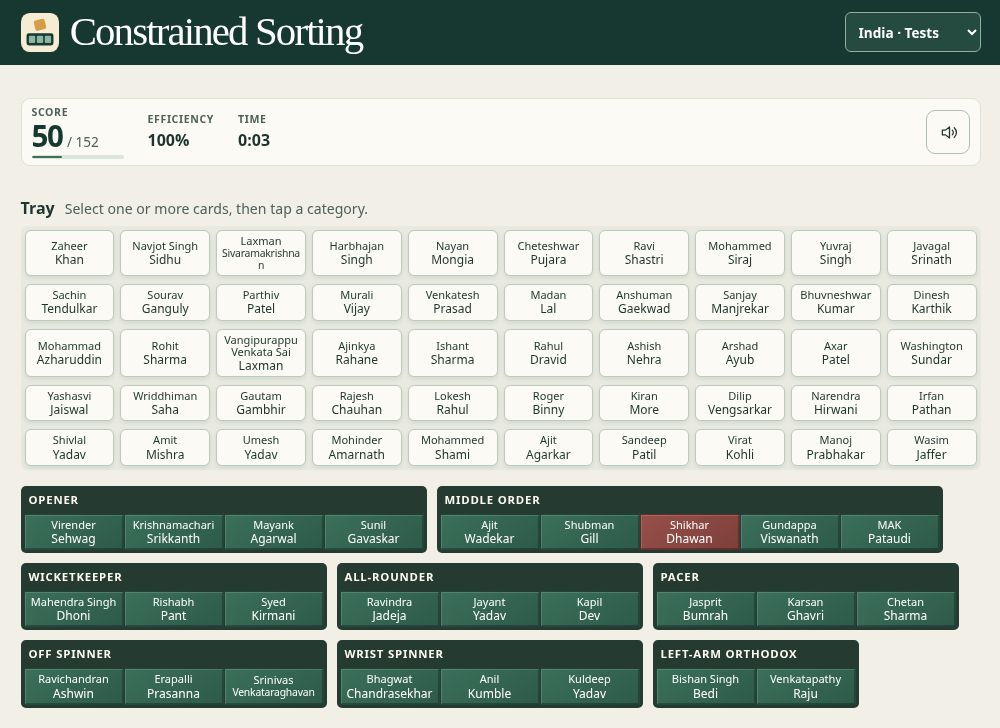
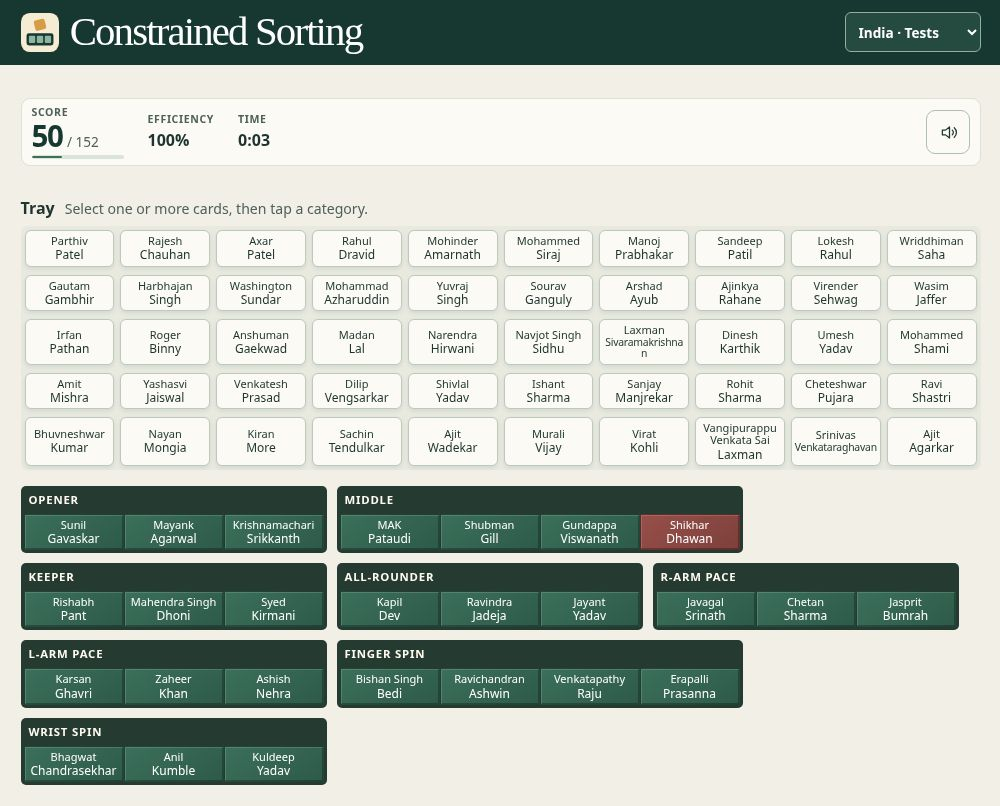
Refine Test cricket categories and labels

diff --git a/play.html b/play.html
@@ -152,7 +152,23 @@
     .deck-status:empty { display: none; }
     .rules { max-width: 42ch; }
     .rules summary { width: fit-content; cursor: pointer; }
-    .rules p { margin-top: 4px; }
+    .rules p { margin-top: .55rem; }
+    .project-links { display: flex; flex-wrap: wrap; gap: 8px; margin-top: 12px; }
+    .project-links a {
+      display: inline-flex;
+      align-items: center;
+      min-height: 44px;
+      padding: 4px 12px;
+      border: 1px solid #b6c9bb;
+      border-radius: 8px;
+      background: var(--paper);
+      color: #355b47;
+      font-size: .8rem;
+      font-weight: 650;
+      text-decoration: none;
+    }
+    .project-links a:hover { background: #e8eee4; }
+    .project-links a:focus-visible { outline: 2px solid #a46118; outline-offset: 3px; }
     .play-field { display: grid; grid-template-columns: minmax(0, 1fr); gap: 16px; padding: 12px 0 17px; }
     .cricket-board { --card-width: 6.25rem; }
     .cricket-board #tray-cards {
@@ -393,11 +409,15 @@
       </div>
       <details class="detail rules">
         <summary>Rules</summary>
-        <p>Select one or more items in the tray, then click or tap a category box to move them there. Each item has one target category.</p>
-        <p>To move an item again, select it and choose another category or the tray. With nothing selected, click or tap a category heading to select all its items.</p>
-        <p>An item in the right category earns 2 points if it got there on the first move, 1 on the second, and 0 after that. Efficiency is the number of items currently in categories divided by the total number of moves. Each item moved counts separately.</p>
+        <p>Pick one or more items in the tray, then tap a category box to put them there. Each item belongs in exactly one category.</p>
+        <p>To move an item again, select it and tap a different category, or tap the tray to take it back. If nothing is selected, tapping a category heading selects every item in that category.</p>
+        <p>Scoring: an item in the right category scores 2 points if you got it there on your first move, 1 point on your second move, and 0 after that.</p>
+        <p>Efficiency is the number of items currently placed in categories divided by your total moves. Each item you move counts as its own move.</p>
       </details>
-      <p class="detail" id="project-links"><a href="index.html">Project home</a> · <a href="constrained-sorting-history.html">Project history</a></p>
+      <nav class="project-links" id="project-links" aria-label="Project links">
+        <a href="index.html">Project home</a>
+        <a href="constrained-sorting-history.html">Project history</a>
+      </nav>
     </section>
   </main>
 

diff --git a/constrained-sorting-history.html b/constrained-sorting-history.html
@@ -60,6 +60,7 @@
       <a href="#game">Designing the game</a>
       <a href="#release">First release</a>
       <a href="#second-commit">Second commit</a>
+      <a href="#third-update">Third push</a>
       <a href="#archive">Technical history</a>
     </nav>
 
@@ -110,7 +111,13 @@
     <section id="second-commit">
       <h2>Second commit</h2>
       <p>The project got its own home page, following the layout of Prime Factor 64. It gives the Quick demo and each cricket deck a direct link. The home and game pages use a smaller title and a logo showing a card above a sorting tray. A screenshot from the India Tests deck shows the game in play. The rules now use the same language for every deck and explain how to select items, move them, and return them to the tray.</p>
-      <p>The IPL deck grew from 63 to 99 players by adding 36 overseas players. The Test deck grew from 59 to 76, including Gundappa Viswanath, MAK Pataudi, and all four members of India’s classic spin quartet. The Test deck uses a Left-arm Orthodox category for bowlers such as Bishan Singh Bedi and a Wrist Spinner category that includes both Bhagwat Chandrasekhar and Kuldeep Yadav.</p>
+      <p>The IPL deck grew from 63 to 99 players by adding 36 overseas players. The Test deck grew from 59 to 76, including Gundappa Viswanath, MAK Pataudi, and all four members of India’s classic spin quartet. It used a separate Left-arm Orthodox category and grouped wrist spinners such as Bhagwat Chandrasekhar and Kuldeep Yadav together. <a href="https://github.com/nsram/constrained-sorting/commit/9a1d999a4a6211a9eb2a94765a69f2acbe67bd52">View the second push on GitHub</a>.</p>
+    </section>
+
+    <section id="third-update">
+      <h2>Third push</h2>
+      <p>The Tests deck split pace bowlers by bowling arm and grouped spinners by how they turn the ball. Off-spinners and left-arm orthodox bowlers now share a category. The board also uses shorter labels for its eight groups. In order, they are Opener, Middle, Keeper, All-rounder, R-arm Pace, L-arm Pace, Finger Spin, and Wrist Spin.</p>
+      <p>The rules now explain placement, scoring, and move efficiency in separate paragraphs. The links below the rules use the game’s button styling.</p>
     </section>
 
     <section id="archive">

diff --git a/index.html b/index.html
@@ -87,7 +87,7 @@
         </div>
       </div>
       <figure>
-        <a href="constrained-sorting-tests.jpg"><img src="constrained-sorting-tests.jpg" width="1000" height="728" alt="An India Tests round in progress, with unplaced players in the tray and green and red cards in the role boxes."></a>
+        <a href="constrained-sorting-tests.jpg"><img src="constrained-sorting-tests.jpg" width="1000" height="806" alt="An India Tests round in progress, with unplaced players in the tray and green and red cards in the role boxes."></a>
         <figcaption>India Tests in play. Select the image for a closer look.</figcaption>
       </figure>
     </section>

diff --git a/tools/build-demo.py b/tools/build-demo.py
@@ -33,7 +33,7 @@ def main():
         '  <script>\n    "use strict";',
         1,
     )
-    app = re.sub(r'^      <p class="detail" id="project-links">.*</p>\n', "", app, flags=re.M)
+    app = re.sub(r'      <nav class="project-links"[^>]*>.*?</nav>\n', "", app, count=1, flags=re.S)
     args.output.parent.mkdir(parents=True, exist_ok=True)
     args.output.write_text(app, encoding="utf-8")
     print(args.output.resolve())
